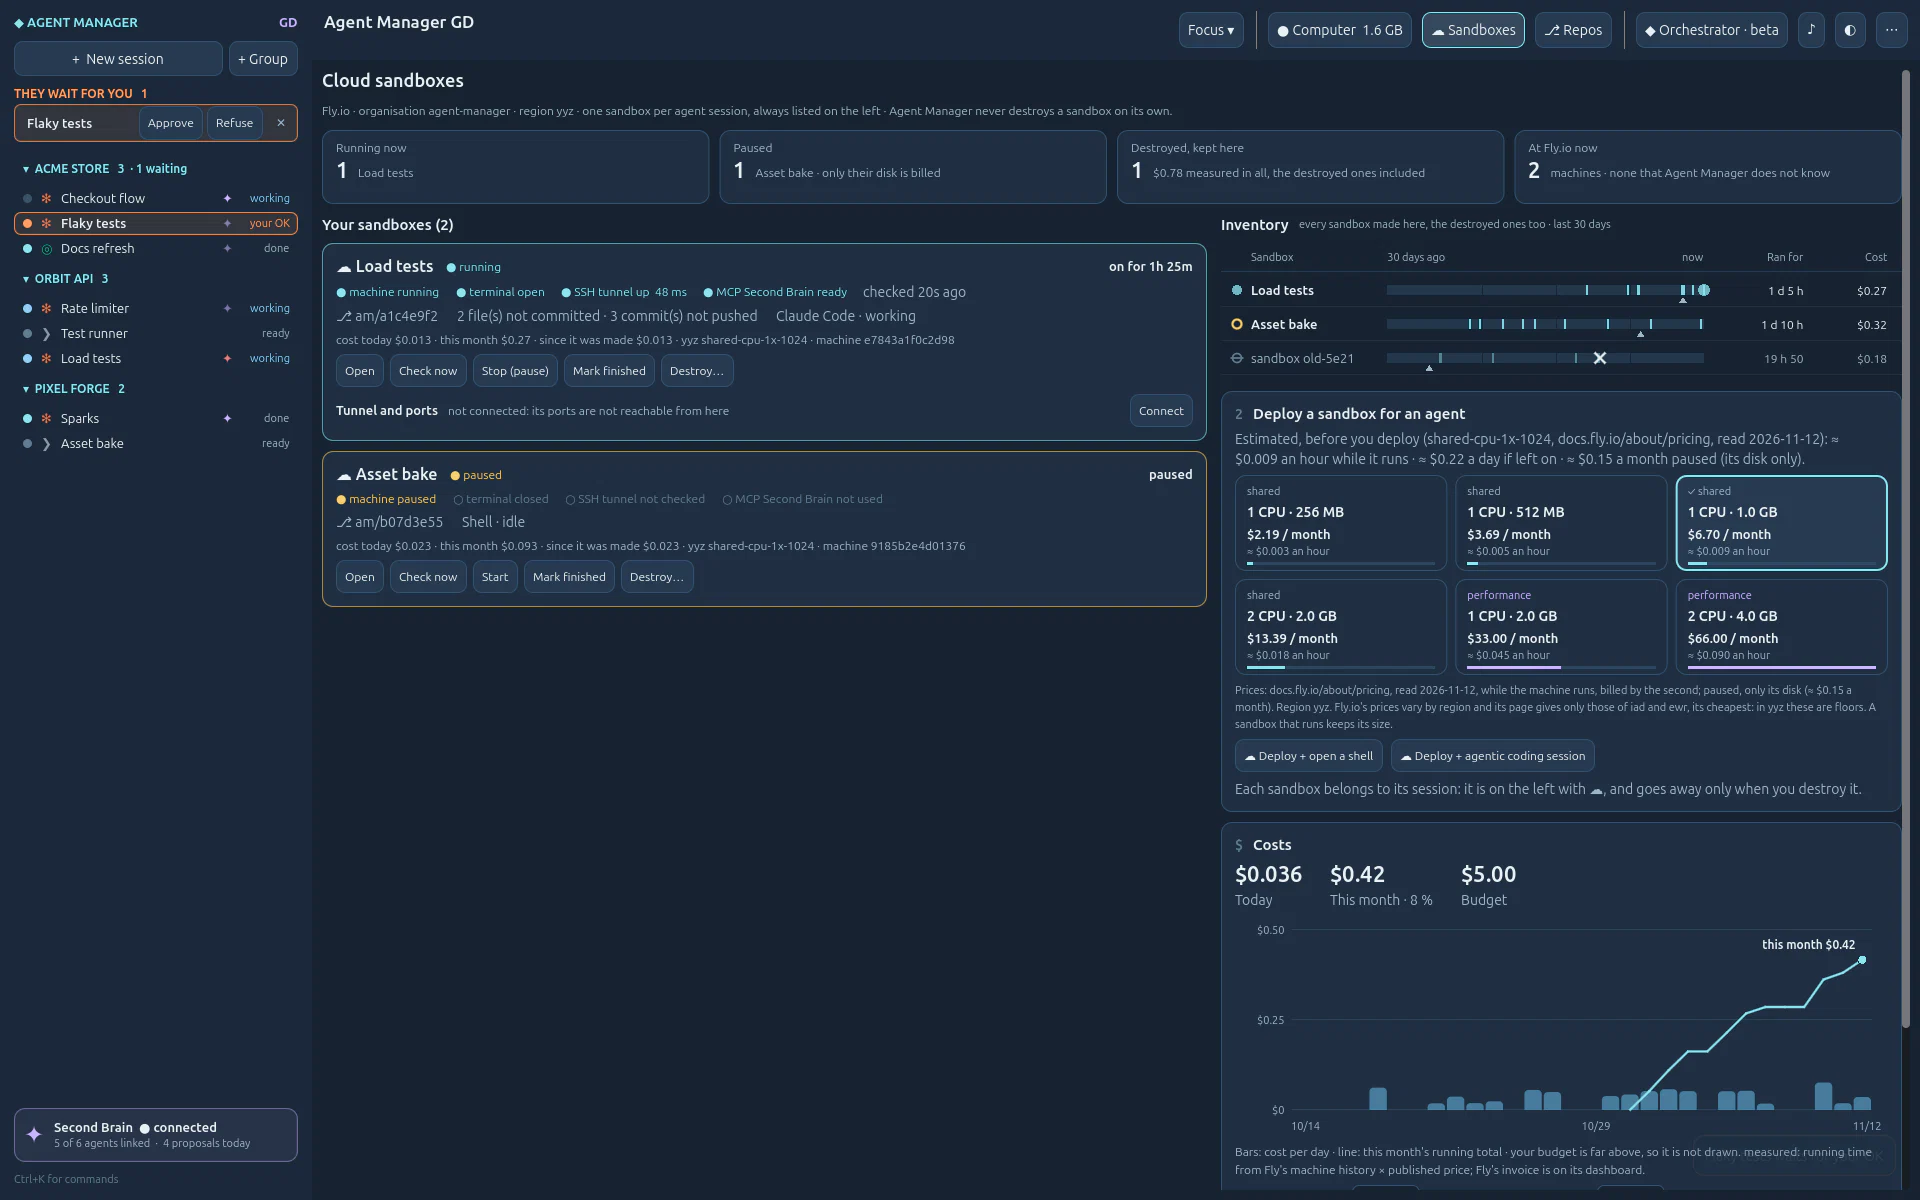
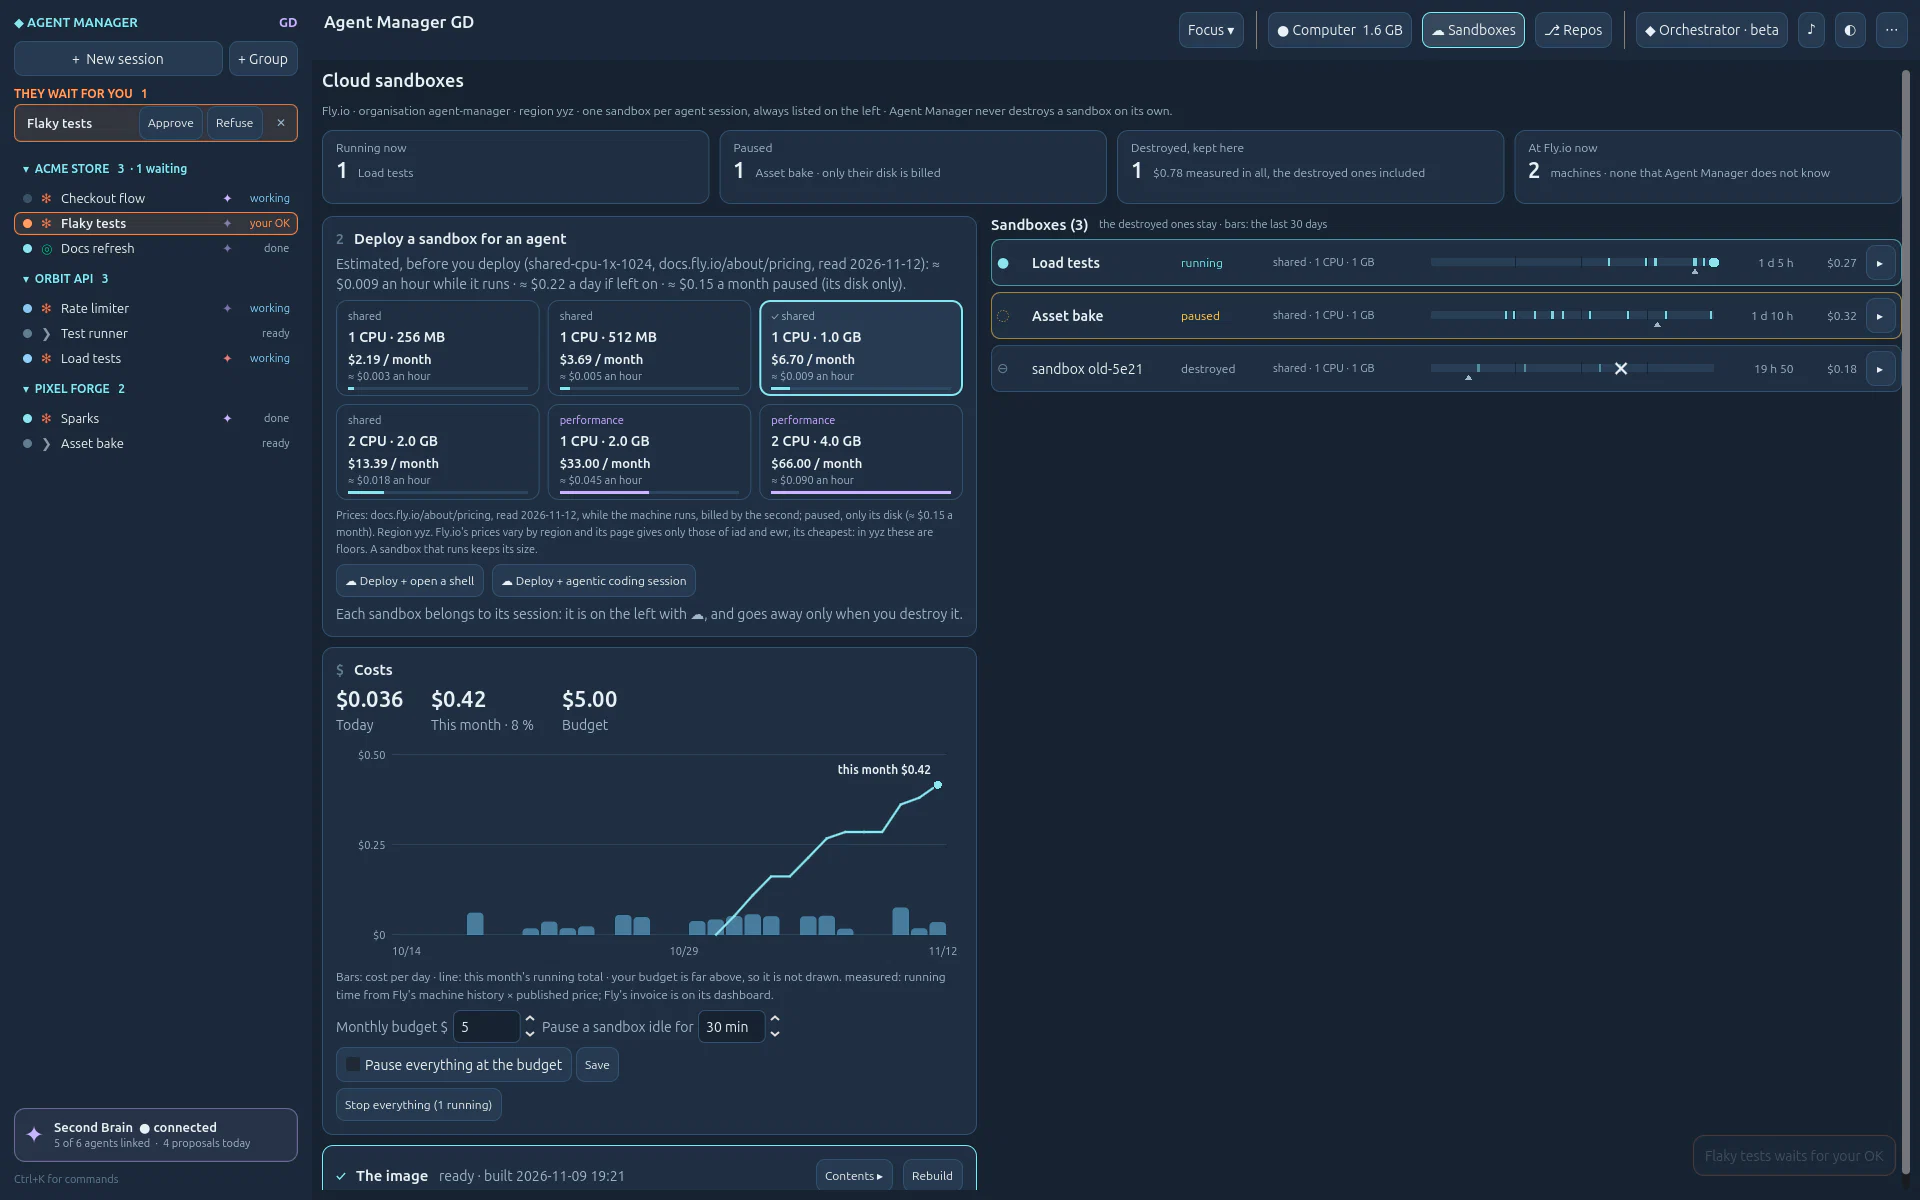
Loop 38: the sandboxes on the right, one per line like the repositories; the deploy menus on the left
The owner: « Je mettrais les sandbox à droite. Même principe que les repos. On mettrait une par ligne, puis on
pourrait venir les extendre pour tous les paramètres. J'aimerais que ça scale bien… à gauche, les menus en lignée,
pour déployer. »

Left: deploy with its sizes, the costs, the image. Right: one line per sandbox, the destroyed ones too (its sign,
name, state, size, life over thirty days, how long it ran, its cost), unfolding to its card with its tunnel and
ports. The inventory and the sandboxes are one list now.

Checked: the capture steps « sandboxes » and « sandbox-ports », 168 cases without a display, the typing and home
steps, the site's checks, the engine suite.

Claude-Session: https://claude.ai/code/session_011X21YaGPg54jYcFs25zcRq

diff --git a/public/docs.html b/public/docs.html
@@ -518,10 +518,11 @@
 
         <h2 id="sandboxes">Cloud sandboxes and costs</h2>
         <p>A cloud sandbox is a throw-away <b>Fly.io machine for one session</b>, with your Fly token (Keys).</p>
-        <p>The <b>☁ Sandboxes</b> tab is a dashboard: four tiles across, then two columns, your cloud sandboxes and
-          their tunnels on the left, and on the right the inventory, the size of the next one, the costs and the image
-          (one line once it is built; <b>Contents ▸</b> shows what it holds). In a narrow window the right column goes
-          under the left one. The <b>Inventory</b> is always there: every sandbox made from
+        <p>The <b>☁ Sandboxes</b> tab is a dashboard: four tiles across, then two columns. On the left, what you use
+          to make one: <b>Deploy</b> with the sizes, the <b>Costs</b>, and the <b>Image</b> (one line once it is built;
+          <b>Contents ▸</b> shows what it holds). On the right, the cloud sandboxes, one per line like the
+          repositories; click a name or its arrow to unfold everything about it: its state, its actions, its tunnel
+          and ports. In a narrow window the columns stack. The list is the inventory, and it is always there: every sandbox made from
           this computer, the destroyed ones too. Four tiles first: running now, paused (only their disk is billed),
           destroyed and kept in the inventory with what was measured in all, and <b>At Fly.io now</b>, the machines
           Fly.io holds at this moment, marked when one of them is unknown to Agent Manager. Then one line per

diff --git a/CHANGELOG.md b/CHANGELOG.md
@@ -36,9 +36,10 @@ Newest first.
 - **Let the sandbox reach a port of this computer…**: a rule, for one port and one cloud sandbox. Without a rule a
   cloud sandbox reaches nothing of this computer but its way back to the Second Brain. The rule has its wire, with what is asked
   and answered, and stays until you close it.
-- The tab is denser: four tiles across, then two columns, the sandboxes and their tunnels on the left, the
-  inventory, the sizes, the costs and the image on the right; the image is one line once it is built, and the size
-  cards sit in even rows. In a narrow window the columns stack.
+- The tab is denser: four tiles across, then two columns. On the left what you use to make one: deploy with the
+  sizes, the costs, the image (one line once it is built). On the right the sandboxes, one per line like the
+  repositories, the destroyed ones too, each with its life over thirty days; a line unfolds to everything about
+  its sandbox, its tunnel and ports included. In a narrow window the columns stack.
 - The **☁ Sandboxes** tab opens on an **Inventory** that is always there: every sandbox made from this computer,
   the destroyed ones too. Before, a destroyed sandbox left the page, and with all of them destroyed the page listed
   nothing. Four tiles: running now, paused, destroyed and kept (with what was measured in all), and **At Fly.io
